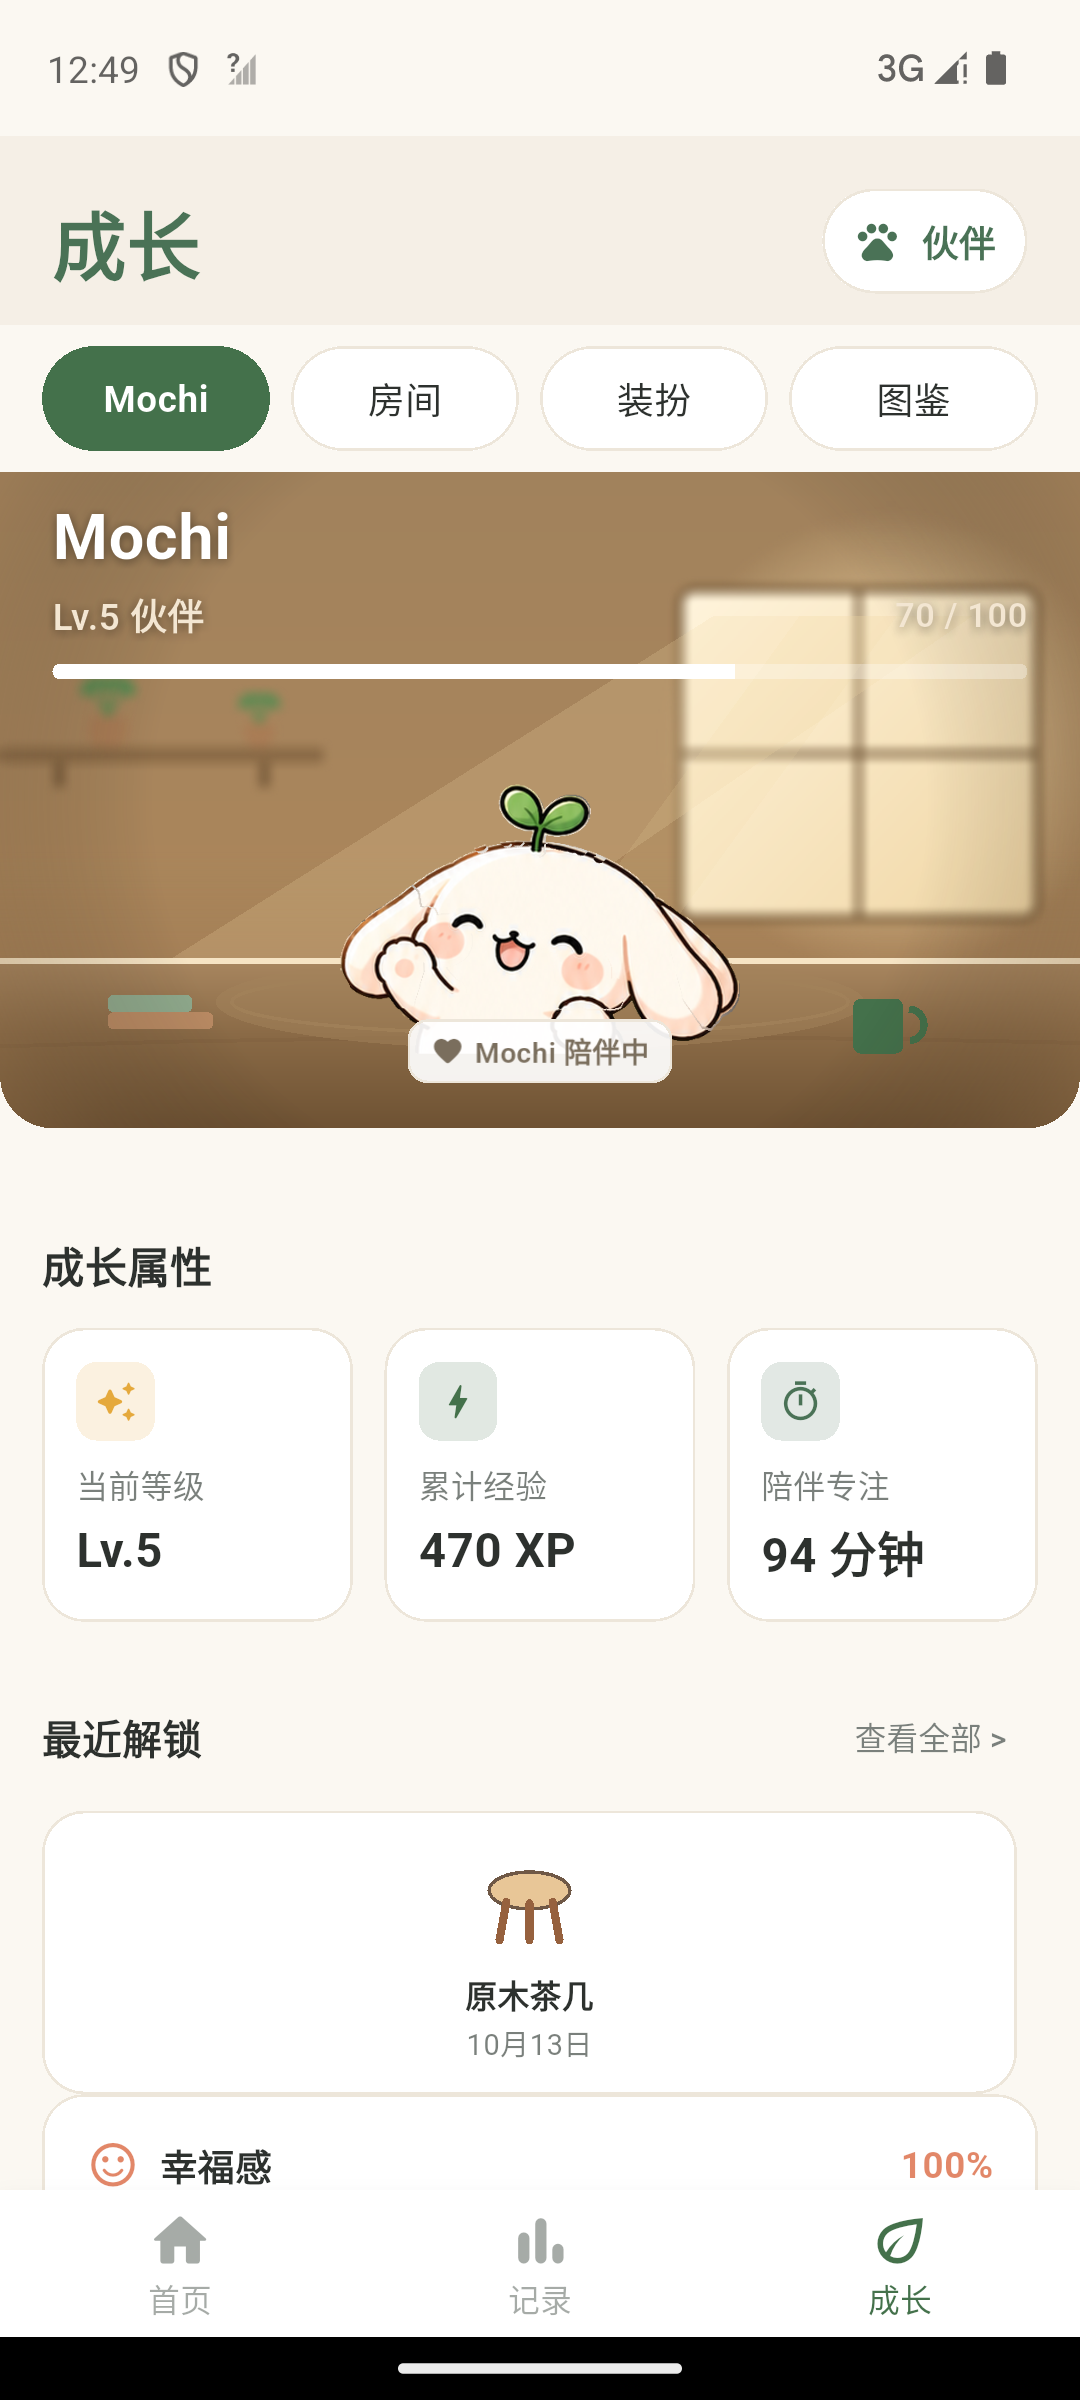
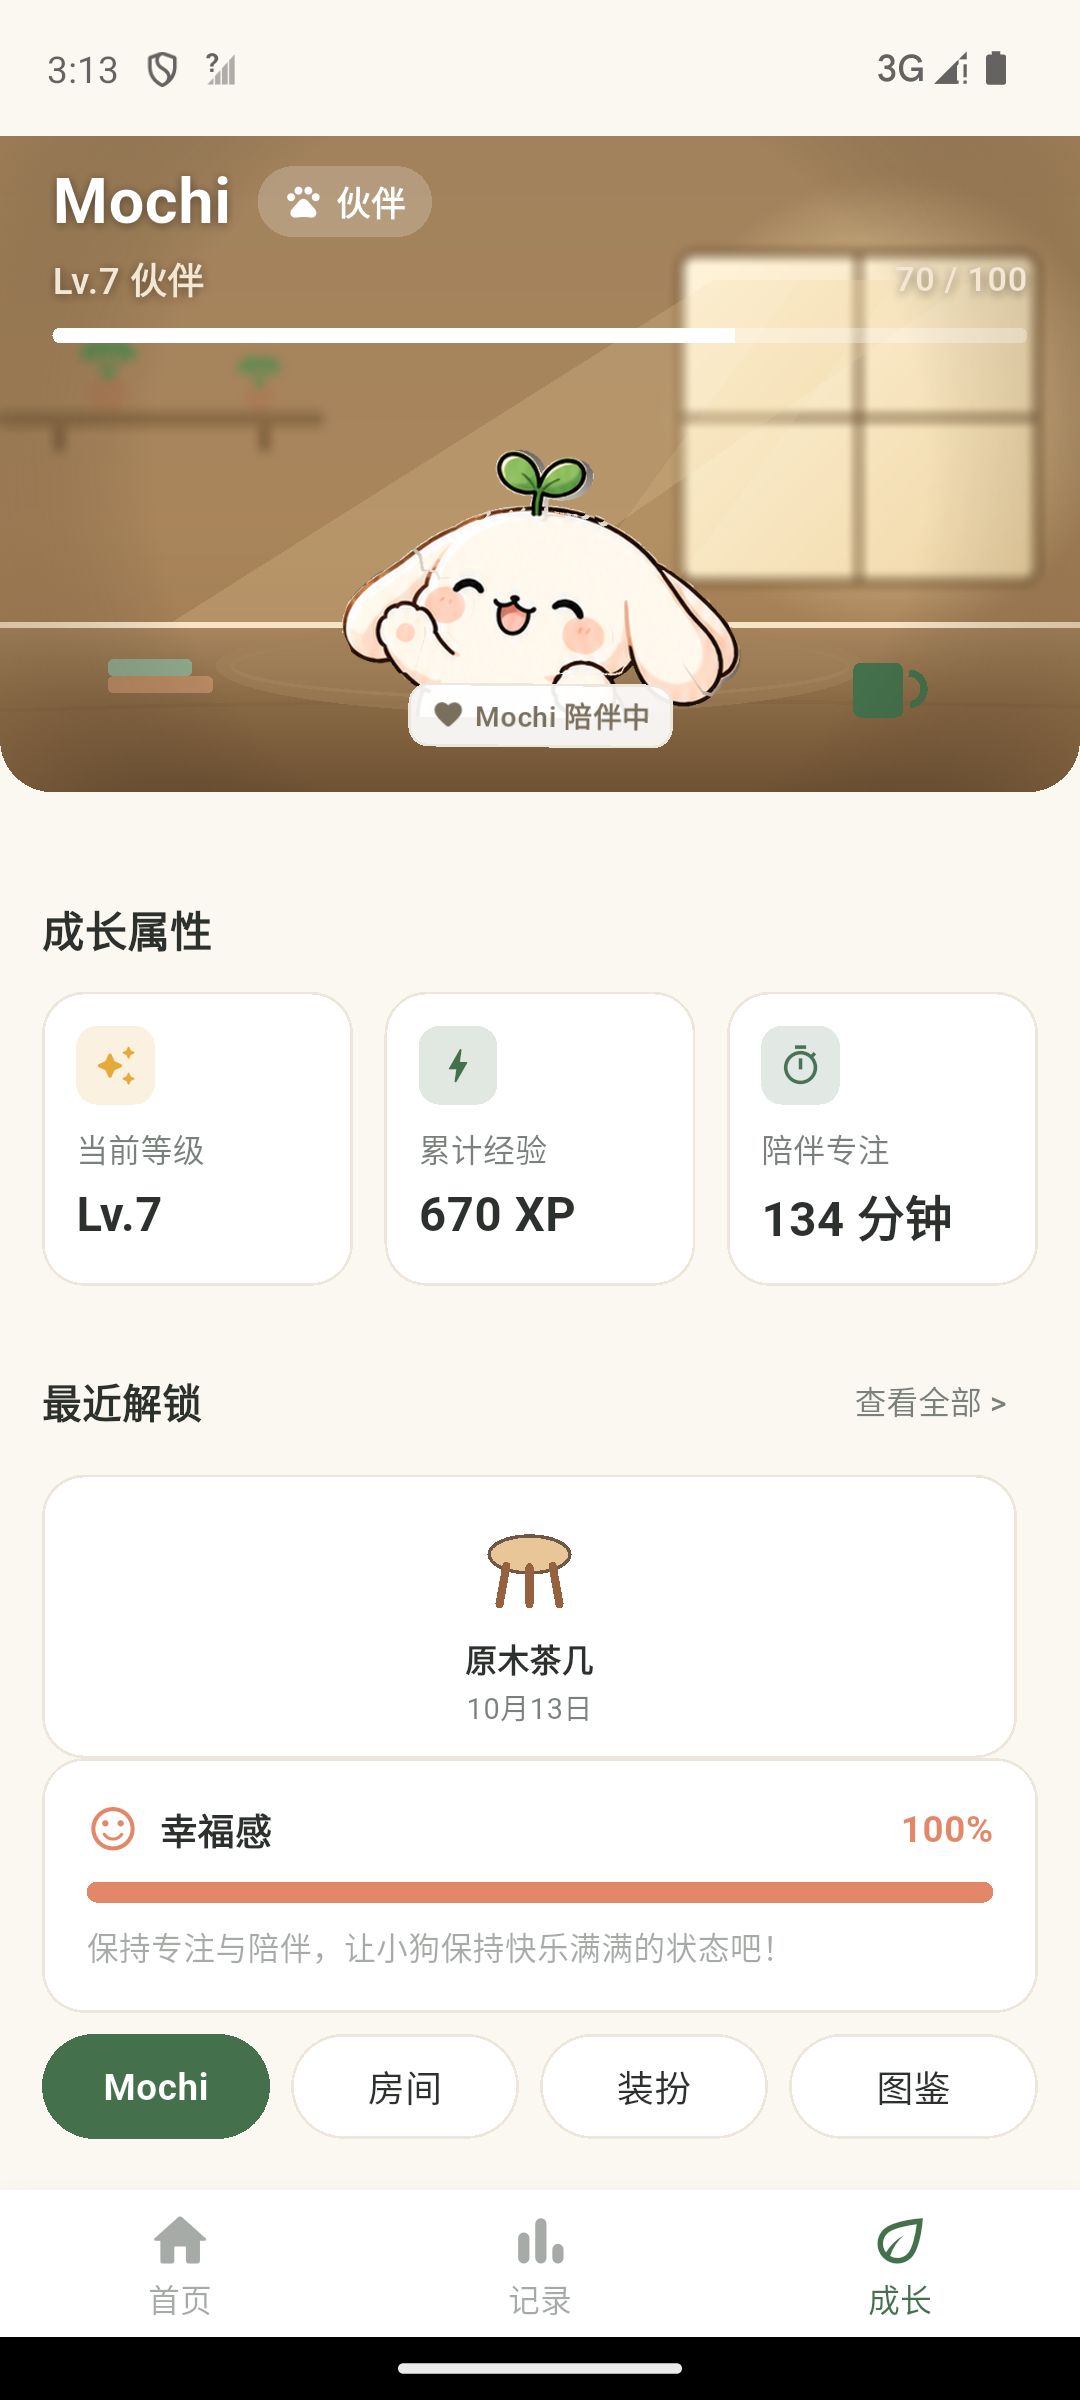
fix(visual): board 10's growth page - the room opens the page and the sub-nav closes it
Board 10 has no header band. Its page opens on the room, with the pet's identity
drawn on the scene and a small affordance right after the name, and the sub-nav
(Mochi / 房间 / 装扮 / 图鉴) is the LAST thing before the main nav.

The app had three rows of chrome before the page's own subject - a 成长 title, a
伙伴 chip, and the sub-nav - and the sub-nav at the top.

## What changed

- The `成长` header is gone from the normal state. It is still used by the
  missing-progress state, where the 伙伴 picker has no other home.
- The companion picker moved to where the board draws its affordance: a pill
  beside the pet's name, on the room. It keeps its label - the board's mark is an
  unlabelled pencil, and copying that shape would leave a glyph whose meaning is
  a guess.
- The sub-nav moved to the end of the slivers, which is where the board puts it.

## A doubled announcement, caught by the project's own scanner

The new picker pill announced itself twice: the `Semantics(label: '伙伴')` wrapper
did not exclude the `Text('伙伴')` inside it, so the device tree read
`伙伴\n伙伴`. That is the shape this project has had to fix more than once.

`tools/find_doubled_semantics_labels.py` catches exactly this - with the
`excludeSemantics: true` line removed it reports:

    lib/presentation/pages/mochi_growth_page.dart
        686  label '伙伴'  and '伙伴'

so the guard is restored and the scanner is clean. Worth recording because the
[…]

diff --git a/cozy_focus_app/lib/presentation/pages/mochi_growth_page.dart b/cozy_focus_app/lib/presentation/pages/mochi_growth_page.dart
@@ -74,14 +74,13 @@ class MochiGrowthPage extends ConsumerWidget {
 
     return CustomScrollView(
       slivers: [
+        // No page header. Board 10 gives the top of this page to the room: the
+        // pet's identity is drawn on the scene, and the only chrome is the
+        // sub-nav, which the board puts at the BOTTOM. The app had a 成长 title
+        // and a 伙伴 chip in a band above the room, with the sub-nav directly
+        // under them - three rows of chrome before the page's own subject.
         SliverToBoxAdapter(
-          child: _buildHeader(context, companionName),
-        ),
-        const SliverToBoxAdapter(
-          child: GrowthSubNav(active: GrowthSection.companion),
-        ),
-        SliverToBoxAdapter(
-          child: _buildPetHero(companionName, progress),
+          child: _buildPetHero(context, companionName, progress),
         ),
         SliverToBoxAdapter(
           child: _buildGrowthStatsGrid(progress),
@@ -91,6 +90,10 @@ class MochiGrowthPage extends ConsumerWidget {
         ),
         SliverToBoxAdapter(
           child: _buildHappinessCard(progress),
+        ),
+        // The sub-nav closes the page, which is where board 10 draws it.
+        const SliverToBoxAdapter(
+          child: GrowthSubNav(active: GrowthSection.companion),
         ),
         const SliverToBoxAdapter(
           child: SizedBox(height: 24),
@@ -115,31 +118,7 @@ class MochiGrowthPage extends ConsumerWidget {
             ),
           ),
           const Spacer(),
-          TextButton.icon(
-            key: const Key('growth_companion_picker_button'),
-            onPressed: () => context.push('/companions'),
-            icon: const Icon(
-              Icons.pets_outlined,
-              size: 18,
-              color: AppColors.primaryDark,
-            ),
-            label: const Text(
-              '伙伴',
-              style: TextStyle(
-                fontSize: 14,
-                fontWeight: FontWeight.w600,
-                color: AppColors.primaryDark,
-              ),
-            ),
-            style: TextButton.styleFrom(
-              backgroundColor: AppColors.surface,
-              padding: const EdgeInsets.symmetric(horizontal: 12, vertical: 6),
-              shape: RoundedRectangleBorder(
-                borderRadius: BorderRadius.circular(AppRadius.pill),
-                side: const BorderSide(color: AppColors.border),
-              ),
-            ),
-          ),
+          _CompanionPickerChip(onTap: () => context.push('/companions')),
         ],
       ),
     );
@@ -153,7 +132,8 @@ class MochiGrowthPage extends ConsumerWidget {
     Shadow(color: Color(0x66000000), blurRadius: 10, offset: Offset(0, 1)),
   ];
 
-  Widget _buildPetHero(String petName, PetProgress progress) {
+  Widget _buildPetHero(
+      BuildContext context, String petName, PetProgress progress) {
     final level = progress.level;
     final xp = progress.experiencePoints;
     const xpPerLevel = 100;
@@ -200,14 +180,30 @@ class MochiGrowthPage extends ConsumerWidget {
               Column(
                 crossAxisAlignment: CrossAxisAlignment.start,
                 children: [
-                  Text(
-                    petName,
-                    style: const TextStyle(
-                      fontSize: 24,
-                      fontWeight: FontWeight.w700,
-                      color: Colors.white,
-                      shadows: _heroTextShadow,
-                    ),
+                  Row(
+                    children: [
+                      Text(
+                        petName,
+                        style: const TextStyle(
+                          fontSize: 24,
+                          fontWeight: FontWeight.w700,
+                          color: Colors.white,
+                          shadows: _heroTextShadow,
+                        ),
+                      ),
+                      const SizedBox(width: 10),
+                      // The companion picker, beside the name.
+                      //
+                      // Board 10 draws its affordance there - a small mark right
+                      // after the pet's name, on the room - and the app's copy of
+                      // it used to be a 伙伴 chip in a header band above the room
+                      // that the board does not have. The route is real (it is
+                      // the only way to change companion), so the control stays;
+                      // it moves to where the board puts its affordance, and
+                      // keeps its label rather than becoming an unmarked glyph.
+                      _CompanionPickerChip(
+                          onTap: () => context.push('/companions')),
+                    ],
                   ),
                   const SizedBox(height: 2),
                   Row(
@@ -667,5 +663,62 @@ class MochiGrowthPage extends ConsumerWidget {
 
   Widget _buildBottomNav(BuildContext context) {
     return const AppBottomNav(currentIndex: 2);
+  }
+}
+
+/// The companion picker, as a pill that sits beside the pet's name on the room.
+///
+/// Board 10 draws a small affordance immediately after the name, on the scene,
+/// and its page has no header band at all. The app's picker was a chip in a
+/// `成长` header above the room, which the board does not have; the control is
+/// real - it is the only route to changing companion - so it moved to the
+/// board's position rather than being removed.
+///
+/// It keeps its label. The board's mark is an unlabelled pencil, and copying
+/// that shape here would leave a glyph whose meaning is a guess.
+class _CompanionPickerChip extends StatelessWidget {
+  final VoidCallback onTap;
+
+  const _CompanionPickerChip({required this.onTap});
+
+  @override
+  Widget build(BuildContext context) {
+    return Semantics(
+      button: true,
+      label: '伙伴',
+      // The wrapper supplies the whole name, so it excludes what it wraps. Without
+      // this the label and the pill's own `Text` both reached the tree and the
+      // device read `伙伴\n伙伴` - the doubled announcement this project has had to
+      // fix more than once. `tools/find_doubled_semantics_labels.py` catches this
+      // shape: with the line removed it reports "label '伙伴' and '伙伴'".
+      excludeSemantics: true,
+      child: Material(
+        color: const Color(0x33FFFFFF),
+        borderRadius: BorderRadius.circular(AppRadius.pill),
+        child: InkWell(
+          key: const Key('growth_companion_picker_button'),
+          onTap: onTap,
+          borderRadius: BorderRadius.circular(AppRadius.pill),
+          child: const Padding(
+            padding: EdgeInsets.symmetric(horizontal: 10, vertical: 4),
+            child: Row(
+              mainAxisSize: MainAxisSize.min,
+              children: [
+                Icon(Icons.pets_outlined, size: 15, color: Colors.white),
+                SizedBox(width: 5),
+                Text(
+                  '伙伴',
+                  style: TextStyle(
+                    fontSize: 13,
+                    fontWeight: FontWeight.w600,
+                    color: Colors.white,
+                  ),
+                ),
+              ],
+            ),
+          ),
+        ),
+      ),
+    );
   }
 }

diff --git a/cozy_focus_app/test/presentation/screen_size_and_text_sweep_test.dart b/cozy_focus_app/test/presentation/screen_size_and_text_sweep_test.dart
@@ -199,8 +199,14 @@ void main() {
     // The other half of the instrument. The landscape rows above only pass
     // because the scroll step brings mid-page content on stage, so if that step
     // ever stopped doing work the sweep would go green while reporting nothing.
-    // This pins the mechanism on the real screen that exposed it: at 800x360 the
-    // growth page's 成长属性 is built but sits below the fold.
+    // This pins the mechanism on a real screen: at 800x360 the growth page's
+    // sub-nav is built but sits below the fold.
+    //
+    // It used to be 成长属性 that played this part. Removing the growth page's
+    // header and moving its sub-nav to the bottom - board 10's layout - lifted
+    // 成长属性 into the first viewport, so it could no longer demonstrate
+    // anything about scrolling. The sub-nav is now the last sliver, which is a
+    // stronger case for the same mechanism.
     tester.view.physicalSize = const Size(800, 360);
     tester.view.devicePixelRatio = 1.0;
     addTearDown(() {
@@ -222,10 +228,10 @@ void main() {
     router.go('/growth');
     await settle(tester);
 
-    expect(find.text('成长属性', skipOffstage: false), findsWidgets,
-        reason: 'the growth page must build its stats section at all');
-    expect(find.text('成长属性'), findsNothing,
-        reason: 'at 360dp tall the section must start below the fold, or this '
+    expect(find.text('图鉴', skipOffstage: false), findsWidgets,
+        reason: 'the growth page must build its sub-nav at all');
+    expect(find.text('图鉴'), findsNothing,
+        reason: 'at 360dp tall the sub-nav must start below the fold, or this '
             'test is not exercising the scroll step');
 
     final target = verticalScrollable(tester);
@@ -236,7 +242,7 @@ void main() {
     for (var step = 0; step < 14 && !revealed; step++) {
       await tester.drag(target!, const Offset(0, -600), warnIfMissed: false);
       await settle(tester, frames: 4);
-      revealed = find.text('成长属性').evaluate().isNotEmpty;
+      revealed = find.text('图鉴').evaluate().isNotEmpty;
     }
     expect(revealed, isTrue,
         reason: 'scrolling must bring the section on stage; if this fails the '

diff --git a/cozy_focus_app/test/presentation/mochi_growth_page_test.dart b/cozy_focus_app/test/presentation/mochi_growth_page_test.dart
@@ -238,11 +238,23 @@ void main() {
       // finds two" - and worked around the duplication instead of removing it.
       // The destination is the same, so this covers the same thing through the
       // one control that offers it.
-      final buttonFinder = find.text('图鉴');
+      //
+      // The sub-nav is now the LAST thing on the page, which is where board 10
+      // draws it, so it starts below the fold - and `find.text` skips off-stage
+      // elements by default. Hence `skipOffstage: false` plus a scroll before the
+      // tap: a tap on an off-stage widget does not land.
+      final buttonFinder = find.text('图鉴', skipOffstage: false);
       expect(buttonFinder, findsOneWidget,
           reason: 'exactly one control should offer the collection');
 
-      await tester.tap(buttonFinder);
+      // Scroll the page to the bottom in steps until the pill is on stage.
+      // `scrollUntilVisible` did not get it there - the sub-nav is the last
+      // sliver and it needed more travel than that helper took.
+      for (var i = 0; i < 10 && find.text('图鉴').evaluate().isEmpty; i++) {
+        await tester.drag(find.byType(Scrollable).first, const Offset(0, -400));
+        await tester.pump();
+      }
+      await tester.tap(find.text('图鉴'));
       await tester.pump();
       await tester.pump(const Duration(milliseconds: 100));
 
